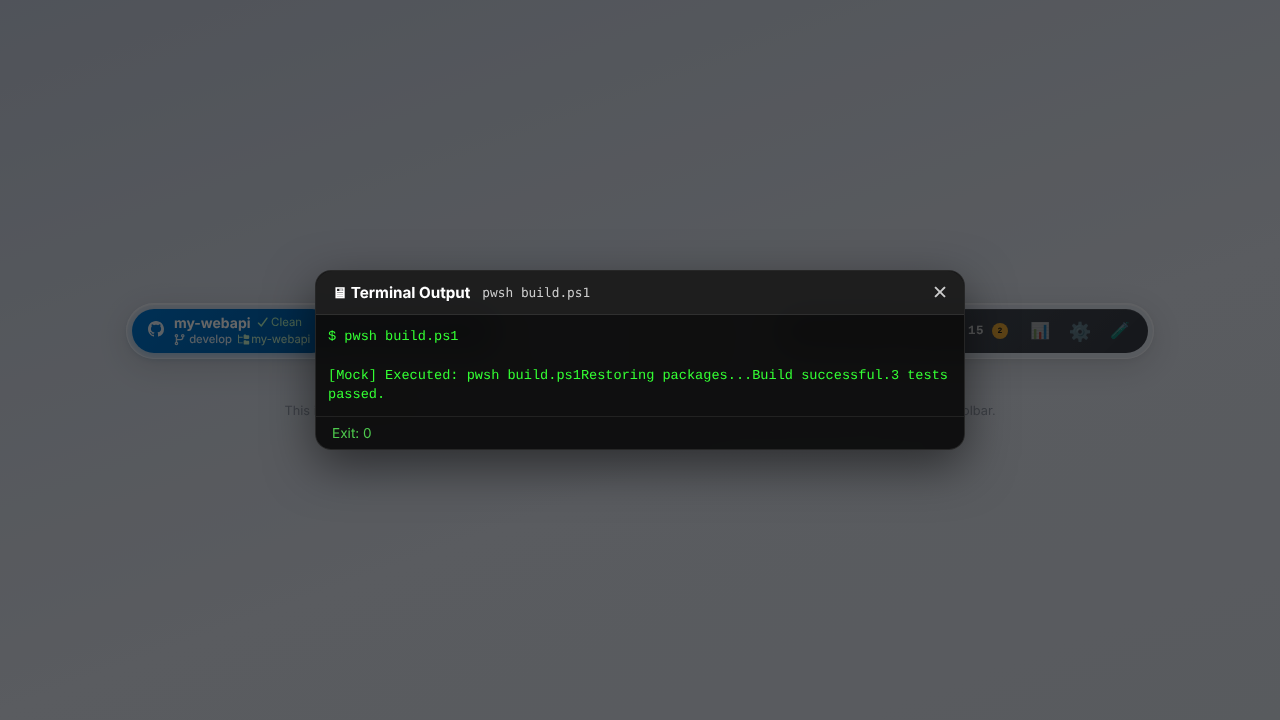
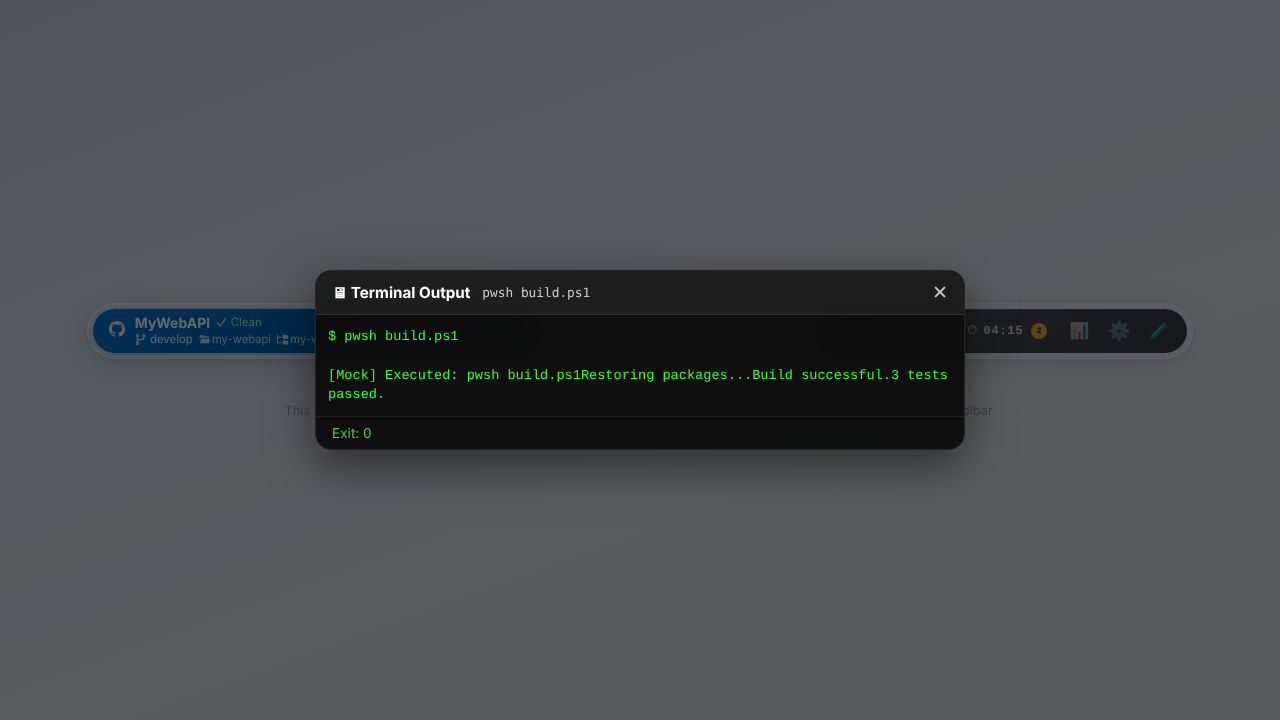
fix: show the project display name in the pill and scroll dialog windows with the mouse wheel
- Project pill (Git plugin): the first line now shows the display name set in the
  project settings instead of the repository folder name. The repository name moves
  to the second line, only when the project has several repositories.
- WPF dialog windows: the wheel forwarded by WebView2CompositionControl did not
  scroll the page. DialogWindow now handles PreviewMouseWheel and asks the page
  (wwwroot/js/wpf-dialog.js) to scroll the element under the pointer, Shift for
  horizontal.
- E2E: renaming the active project checks the visible pill text. Screenshots
  regenerated (pill shows the display name).

Claude-Session: https://claude.ai/code/session_011HCNT2BMveQRGfUYgxdjib

Changed region(s): [[0.75, 0.4278, 0.9375, 0.4889], [0.0625, 0.4278, 0.25, 0.4889]]

diff --git a/src/Kazo.Bar.Windows/wwwroot/js/wpf-dialog.js b/src/Kazo.Bar.Windows/wwwroot/js/wpf-dialog.js
@@ -1,0 +1,45 @@
+// Dialog windows of the WPF host (DialogWindow, wwwroot/dialog.html).
+//
+// Mouse wheel: the WPF BlazorWebView renders through WebView2CompositionControl, whose forwarded
+// wheel input did not scroll the page in dialog windows. DialogWindow therefore takes the wheel
+// itself and calls kazoDialogWheel, which scrolls the first element under the pointer that can
+// still move in that direction (else the page).
+
+(function () {
+    var SCROLLABLE = /(auto|scroll|overlay)/;
+
+    function canScroll(el, deltaX, deltaY, isRoot) {
+        var style = window.getComputedStyle(el);
+        if (deltaY !== 0 && (isRoot || SCROLLABLE.test(style.overflowY)) && el.scrollHeight > el.clientHeight) {
+            if (deltaY < 0 ? el.scrollTop > 0 : el.scrollTop + el.clientHeight < el.scrollHeight - 1) return true;
+        }
+        if (deltaX !== 0 && (isRoot || SCROLLABLE.test(style.overflowX)) && el.scrollWidth > el.clientWidth) {
+            if (deltaX < 0 ? el.scrollLeft > 0 : el.scrollLeft + el.clientWidth < el.scrollWidth - 1) return true;
+        }
+        return false;
+    }
+
+    /**
+     * Scrolls what is under the pointer.
+     * @param {number} x - Pointer X in CSS px, relative to the page.
+     * @param {number} y - Pointer Y in CSS px, relative to the page.
+     * @param {number} deltaX - Pixels to scroll right (negative: left).
+     * @param {number} deltaY - Pixels to scroll down (negative: up).
+     * @returns {boolean} true when something scrolled.
+     */
+    window.kazoDialogWheel = function (x, y, deltaX, deltaY) {
+        var el = document.elementFromPoint(x, y);
+        for (; el && el !== document.body && el !== document.documentElement; el = el.parentElement) {
+            if (canScroll(el, deltaX, deltaY, false)) {
+                el.scrollBy(deltaX, deltaY);
+                return true;
+            }
+        }
+        var root = document.scrollingElement || document.documentElement;
+        if (root && canScroll(root, deltaX, deltaY, true)) {
+            root.scrollBy(deltaX, deltaY);
+            return true;
+        }
+        return false;
+    };
+})();

diff --git a/src/Kazo.Bar.UI/wwwroot/css/toolbar.css b/src/Kazo.Bar.UI/wwwroot/css/toolbar.css
@@ -3227,7 +3227,7 @@ body.dock-bottom .module-menu { top: auto; bottom: calc(100% + 8px); }
     line-height: 1.2;
 }
 
-.git-repo-name {
+.git-project-name {
     font-weight: 700;
     font-size: 0.92em;
     color: #fff;
@@ -3261,6 +3261,17 @@ body.dock-bottom .module-menu { top: auto; bottom: calc(100% + 8px); }
 }
 
 .git-worktree-name { overflow: hidden; text-overflow: ellipsis; white-space: nowrap; }
+
+/* Repository of the pill's second line (only when the project has several). */
+.git-repo {
+    display: flex;
+    align-items: center;
+    gap: 2px;
+    min-width: 0;
+    flex-shrink: 2;
+}
+
+.git-repo .git-repo-name { overflow: hidden; text-overflow: ellipsis; white-space: nowrap; font-weight: inherit; font-size: 1em; color: inherit; }
 
 .git-detail-line .git-tracking { font-size: 1em; flex-shrink: 0; }
 
@@ -3633,7 +3644,7 @@ body.dock-bottom .module-overflow-panel { top: auto; bottom: calc(100% + 14px); 
     font-weight: 400;
 }
 
-.git-pill-info .git-repo-name { color: #fff; }
+.git-pill-info .git-project-name { color: #fff; }
 
 .git-pill-info .git-detail-line { color: rgba(255, 255, 255, 0.78); }
 

diff --git a/src/Kazo.Bar.Windows/wwwroot/dialog.html b/src/Kazo.Bar.Windows/wwwroot/dialog.html
@@ -21,6 +21,7 @@
     </div>
 
     <script src="_content/Kazo.Bar.UI/js/toolbar-interop.js"></script>
+    <script src="js/wpf-dialog.js"></script>
     <script src="_framework/blazor.webview.js"></script>
 </body>
 </html>

diff --git a/src/Kazo.Bar.Windows/DialogWindow.cs b/src/Kazo.Bar.Windows/DialogWindow.cs
@@ -1,8 +1,11 @@
+using System.Globalization;
 using System.Windows;
+using System.Windows.Input;
 using System.Windows.Media;
 using Kazo.Bar.Core.Dialogs;
 using Kazo.Bar.UI.Dialogs;
 using Microsoft.AspNetCore.Components.WebView.Wpf;
+using Microsoft.Web.WebView2.Core;
 
 namespace Kazo.Bar.Windows;
 
@@ -17,7 +20,11 @@ public sealed class DialogWindow : Window
     private const double MinimumHeight = 240;
     private static readonly Color Background_ = Color.FromRgb(0x1E, 0x1E, 0x1E);
 
+    /// <summary>CSS px scrolled per wheel notch (about what Edge scrolls for one notch).</summary>
+    private const double WheelPixelsPerNotch = 100;
+
     private readonly BlazorWebView _webView;
+    private CoreWebView2? _core;
 
     public DialogWindow(IServiceProvider services, DialogContext context, Type componentType,
         IReadOnlyDictionary<string, object?>? parameters, DialogOptions options)
@@ -50,14 +57,17 @@ public sealed class DialogWindow : Window
             // Same color as the page: no white flash while it loads.
             e.WebView.DefaultBackgroundColor = System.Drawing.Color.FromArgb(255, Background_.R, Background_.G, Background_.B);
             e.WebView.CoreWebView2.Settings.IsStatusBarEnabled = false;
+            _core = e.WebView.CoreWebView2;
             e.WebView.CoreWebView2.ProcessFailed += (_, failure) =>
                 Program.Log($"Dialog {context.Key}: WebView2 process failed: {failure.ProcessFailedKind} ({failure.Reason})");
         };
         Content = _webView;
+        _webView.PreviewMouseWheel += OnPreviewMouseWheel;
 
         Closed += async (_, _) =>
         {
             IsClosed = true;
+            _core = null;
             Program.Log($"Dialog closed: {context.Key}.");
             try
             {
@@ -69,6 +79,39 @@ public sealed class DialogWindow : Window
                 Program.Log($"Dialog {context.Key}: WebView dispose failed: {ex.Message}");
             }
         };
+    }
+
+    /// <summary>
+    /// Mouse wheel. WebView2CompositionControl forwards the wheel to the browser, but the page of
+    /// a dialog window did not scroll with it. The window takes the wheel instead (Handled, so the
+    /// control does not forward it as well) and asks the page to scroll what is under the pointer
+    /// (wwwroot/js/wpf-dialog.js). Shift + wheel scrolls horizontally, as in a browser.
+    /// </summary>
+    private void OnPreviewMouseWheel(object sender, MouseWheelEventArgs e)
+    {
+        if (_core is not { } core) return;
+        e.Handled = true;
+
+        var position = e.GetPosition(_webView);
+        var pixels = -e.Delta / (double)Mouse.MouseWheelDeltaForOneLine * WheelPixelsPerNotch;
+        var horizontal = Keyboard.Modifiers.HasFlag(ModifierKeys.Shift);
+        var script = string.Format(CultureInfo.InvariantCulture,
+            "window.kazoDialogWheel && window.kazoDialogWheel({0:0.##}, {1:0.##}, {2:0.##}, {3:0.##});",
+            position.X, position.Y, horizontal ? pixels : 0, horizontal ? 0 : pixels);
+        _ = ScrollAsync(core, script);
+    }
+
+    private async Task ScrollAsync(CoreWebView2 core, string script)
+    {
+        try
+        {
+            await core.ExecuteScriptAsync(script);
+        }
+        catch (Exception ex)
+        {
+            // Window closing or page reloading: one lost wheel notch is harmless.
+            Program.Log($"Dialog {Context.Key}: wheel scroll failed: {ex.Message}");
+        }
     }
 
     public DialogContext Context { get; }

diff --git a/tests/Kazo.Bar.Tests.E2E/Scenarios/ProjectSettingsTests.cs b/tests/Kazo.Bar.Tests.E2E/Scenarios/ProjectSettingsTests.cs
@@ -127,6 +127,8 @@ public class ProjectSettingsTests : PageTest
 
         await Page.GotoAsync(BaseUrl, new() { WaitUntil = WaitUntilState.NetworkIdle });
         await Expect(Page.GetByTestId("project-selector")).ToContainTextAsync("Public API", new() { Timeout = 30000 });
+        // The visible pill text (filled by the Git plugin) is the display name, not the repository name.
+        await Expect(Page.GetByTestId("git-project-name")).ToHaveTextAsync("Public API");
         await Expect(Page.Locator(".toolbar-shell")).ToHaveAttributeAsync("data-theme", "dark");
         await Expect(Page.Locator(".toolbar-shell")).ToHaveAttributeAsync("style", new System.Text.RegularExpressions.Regex("#AA3300", System.Text.RegularExpressions.RegexOptions.IgnoreCase));
     }
